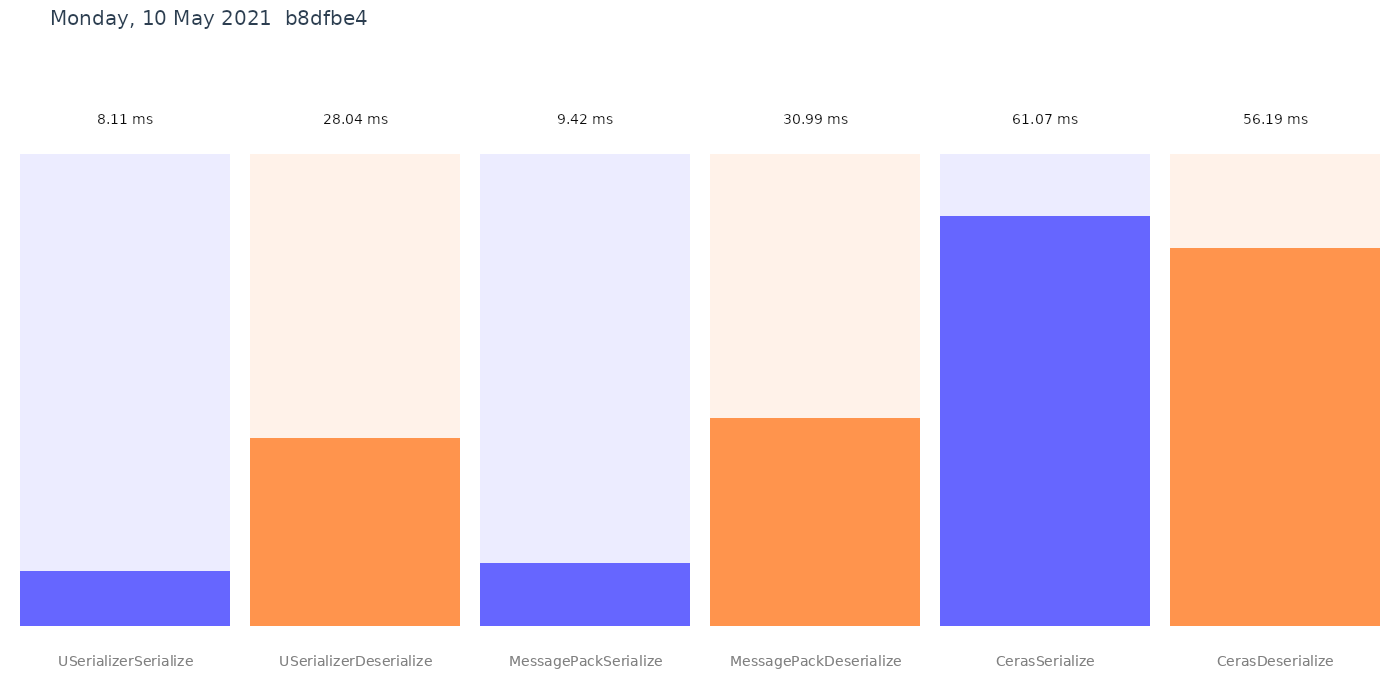
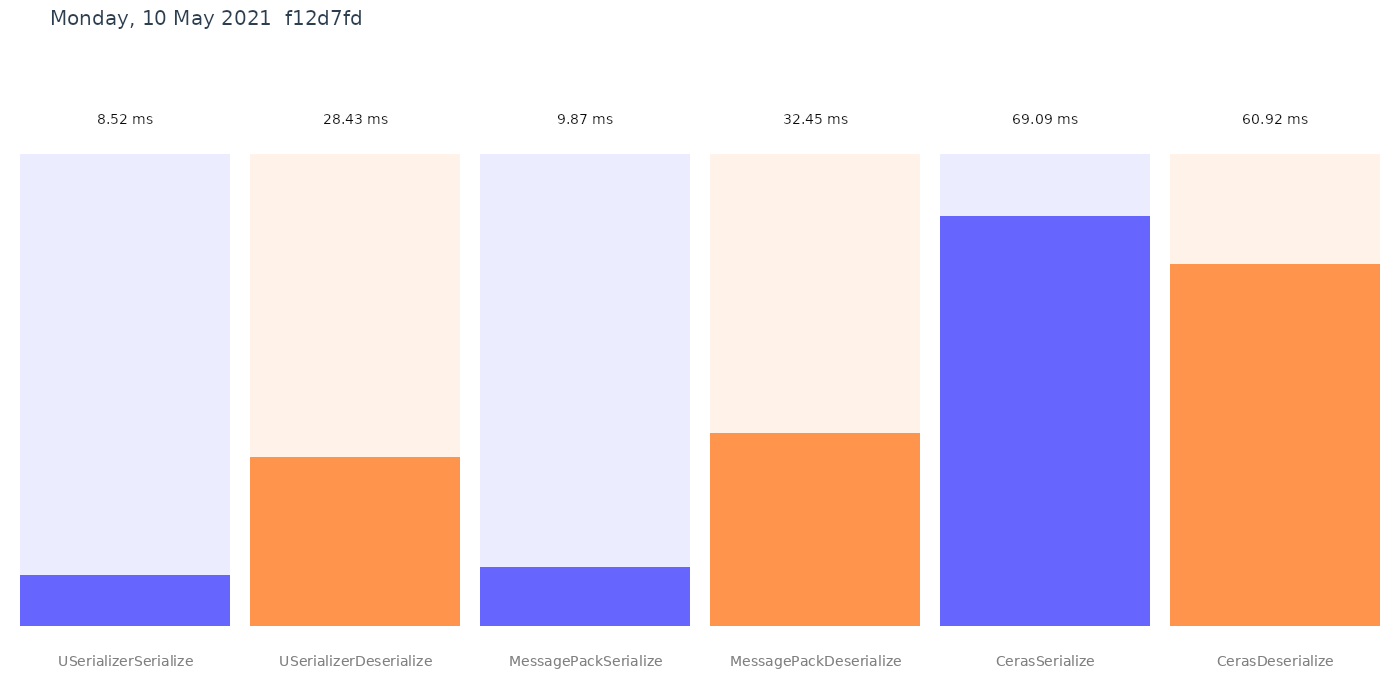
deploy: f12d7fdb6a1f4b0edc68f2072944cd34a99fad3d

diff --git a/performance.md b/performance.md
@@ -1,7 +1,7 @@
 ``` ini
 
 BenchmarkDotNet=v0.12.1, OS=ubuntu 20.04
-Intel Xeon CPU E5-2673 v4 2.30GHz, 1 CPU, 2 logical and 2 physical cores
+Intel Xeon CPU E5-2673 v3 2.40GHz, 1 CPU, 2 logical and 2 physical cores
 .NET Core SDK=5.0.202
   [Host]   : .NET Core 5.0.5 (CoreCLR 5.0.521.16609, CoreFX 5.0.521.16609), X64 RyuJIT
   ShortRun : .NET Core 5.0.5 (CoreCLR 5.0.521.16609, CoreFX 5.0.521.16609), X64 RyuJIT
@@ -10,11 +10,11 @@ Job=ShortRun  IterationCount=3  LaunchCount=1
 WarmupCount=3  
 
 ```
-|                 Method |      Mean |      Error |    StdDev |
-|----------------------- |----------:|-----------:|----------:|
-|   USerializerSerialize |  8.113 ms |  0.7164 ms | 0.0393 ms |
-| USerializerDeserialize | 28.039 ms |  2.0027 ms | 0.1098 ms |
-|   MessagePackSerialize |  9.425 ms |  6.9360 ms | 0.3802 ms |
-| MessagePackDeserialize | 30.987 ms |  6.8075 ms | 0.3731 ms |
-|         CerasSerialize | 61.073 ms | 59.8331 ms | 3.2797 ms |
-|       CerasDeserialize | 56.191 ms | 19.0022 ms | 1.0416 ms |
+|                 Method |      Mean |     Error |    StdDev |
+|----------------------- |----------:|----------:|----------:|
+|   USerializerSerialize |  8.518 ms |  1.029 ms | 0.0564 ms |
+| USerializerDeserialize | 28.430 ms |  7.457 ms | 0.4087 ms |
+|   MessagePackSerialize |  9.866 ms |  8.523 ms | 0.4672 ms |
+| MessagePackDeserialize | 32.449 ms | 10.526 ms | 0.5770 ms |
+|         CerasSerialize | 69.088 ms |  1.584 ms | 0.0868 ms |
+|       CerasDeserialize | 60.920 ms | 13.640 ms | 0.7477 ms |
